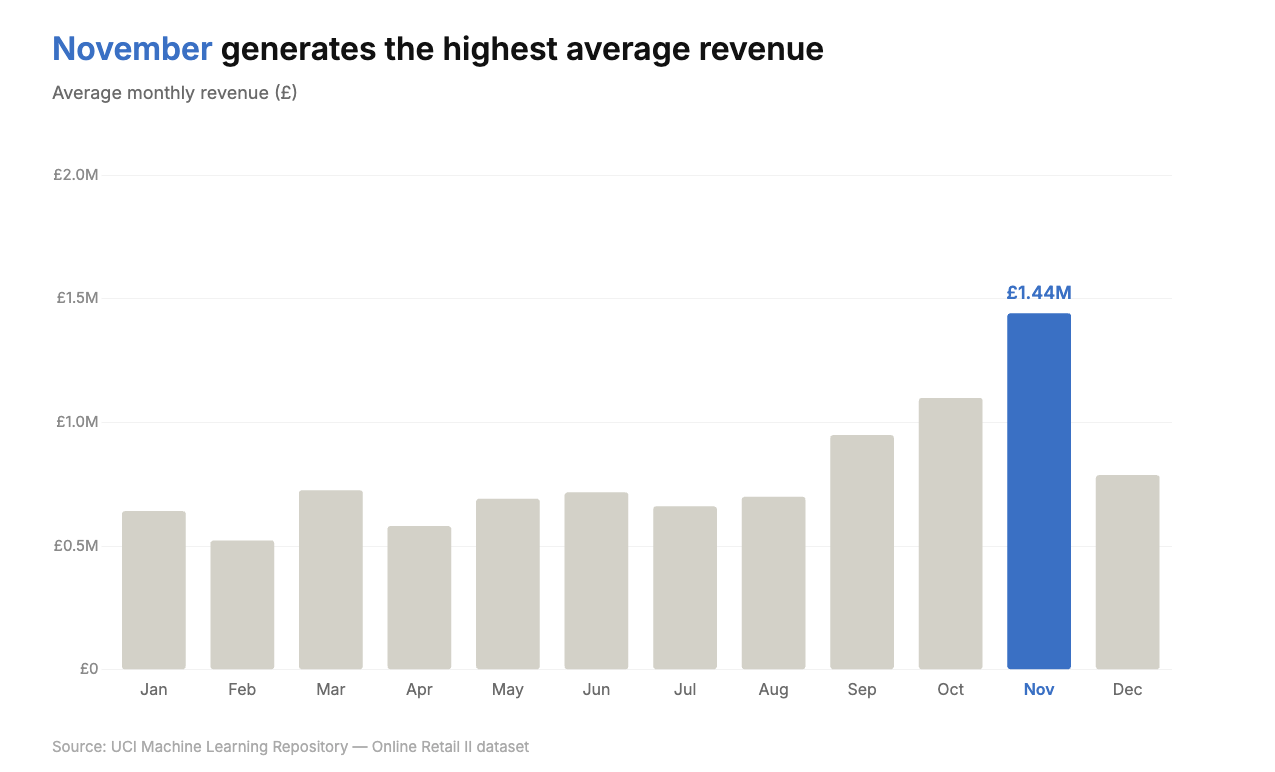
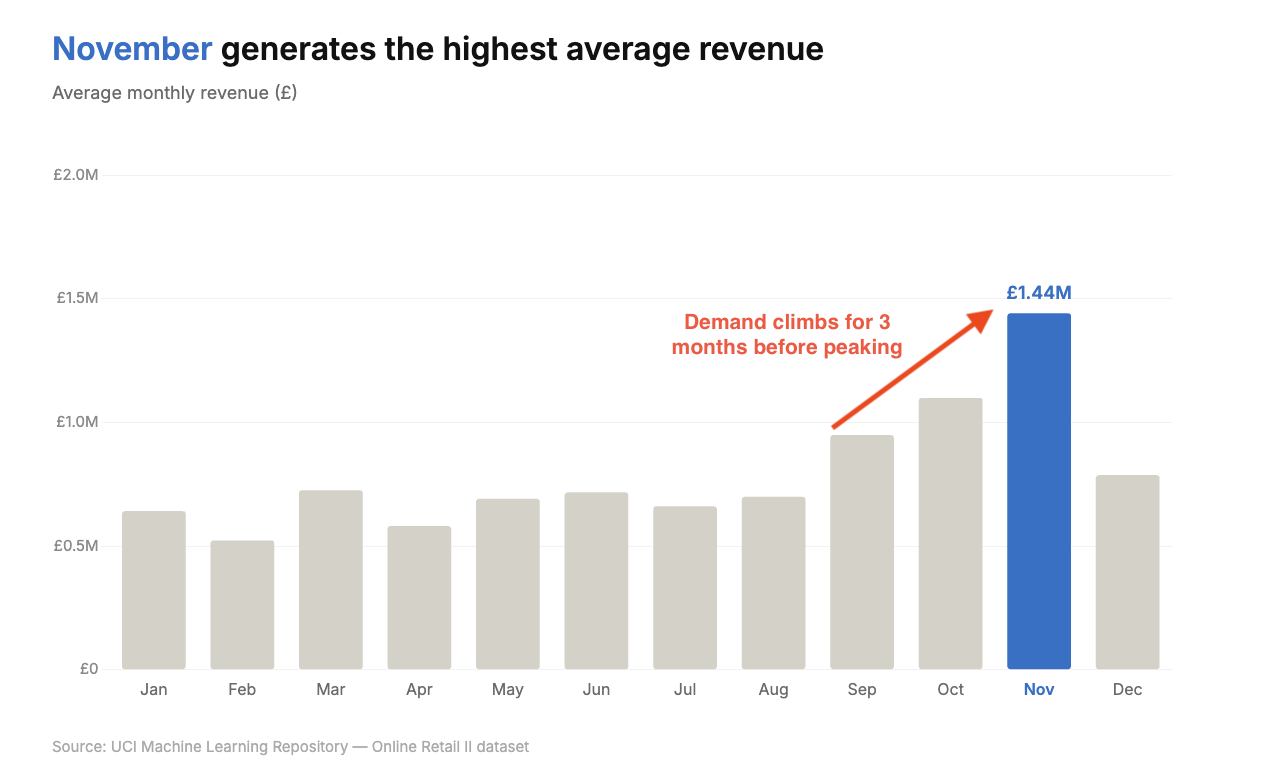
editing average monthly revenue chart and readme

Changed region(s): [[0.52, 0.4041, 0.7953, 0.4974], [0.6729, 0.4974, 0.7035, 0.5285], [0.6424, 0.5285, 0.6729, 0.5596]]

diff --git a/README.md b/README.md
@@ -13,6 +13,7 @@ A UK online retailer wants to know how the business has performed over the past 
 ## Business Problem
 
 ### The headline
+
 | | Year 1 (Dec 09 to Nov 10) | Year 2 (Dec 10 to Nov 11) | Change | Two years |
 |---|---|---|---|---|
 | Revenue | £9,397,599 | £9,632,728 | +2.5% | £19,030,328 |
@@ -20,16 +21,18 @@ A UK online retailer wants to know how the business has performed over the past 
 | Average order value | £475.68 | £508.14 | +6.8% | £491.57 |
 | Active customers | 4,239 | 4,293 | +1.3% | |
 
-Across the two complete trading years, revenue grew by 2.5% but orders fell by 4%. With new customer intake
-declining over the same period and the average order value rising by 6.8%, this suggests the
-growth came from selling more to the people already there.
+*Both years run December to November so the eight trading days of December 2011 don't
+distort the comparison. Customers who ordered in both years appear in both columns, so the two years cannot be added together.*
+
+Across the two complete trading years, revenue grew by 2.5% while orders fell by 4%. New customer intake declined over the same period, so the growth came from selling more to the customers already there.
+
 
 ![As new customer intake fell away, returning customers climbed to take its place](/docs/img/new_vs_returning_customers.png)
 
 The questions that matter to the commercial team:
 
 - **Who the customers are?**
-- **Which of the new customers are worth keeping?** 
+- **Which new customers go on to buy again?** 
 - **When are purchases typically made?** 
 
 
@@ -97,7 +100,7 @@ Geography tells the same story. The **UK is 86% of revenue (£16.8m)**, and most
 
 ---
 
-### Which of the new customers are worth keeping
+### Which new customers go on to buy again?
 
 ![Low first order spenders are least likely to buy again](/docs/img/first_order_value_vs_buy_again.png)
 
@@ -107,19 +110,16 @@ The rate rises at every step, but the sharpest jump is from the bottom quartile 
 
 ---
 
-### When do customers buy
+### When are purchases typically made?
 
 ![November generates the highest average revenue](/docs/img/average_monthly_revenue_chart.png)
 
-November averages **£1.44m**, roughly double a typical month. September and October are already the next highest at £949k and £1.10m, so demand climbs for three months before it peaks.
-
 ![Saturday generates less than 1% of weekly revenue](/docs/img/revenue_by_day.png)
 
-This is a weekday business as Monday to Friday carries around 90% of revenue and Saturday takes just £9,803 across the entire two years.
 
 ![Revenue peaks at 12pm and falls to near zero by 8pm](/docs/img/revenue_by_hour.png)
 
-Within the day, revenue peaks at midday and around 90% is taken between 9am and 5pm.
+This is a weekday business as Monday to Friday carries around 90% of revenue and Saturday takes just £9,803 across the entire two years. Within the day, revenue peaks at midday and around 90% is taken between 9am and 5pm.
 
 **Recommendation:** Commit stock and launch campaigns by early September and hold the annual planning review in July. Schedule campaigns and emails for weekday mornings and staff customer service to the 9 to 5 window rather than evenly across the week.
 
